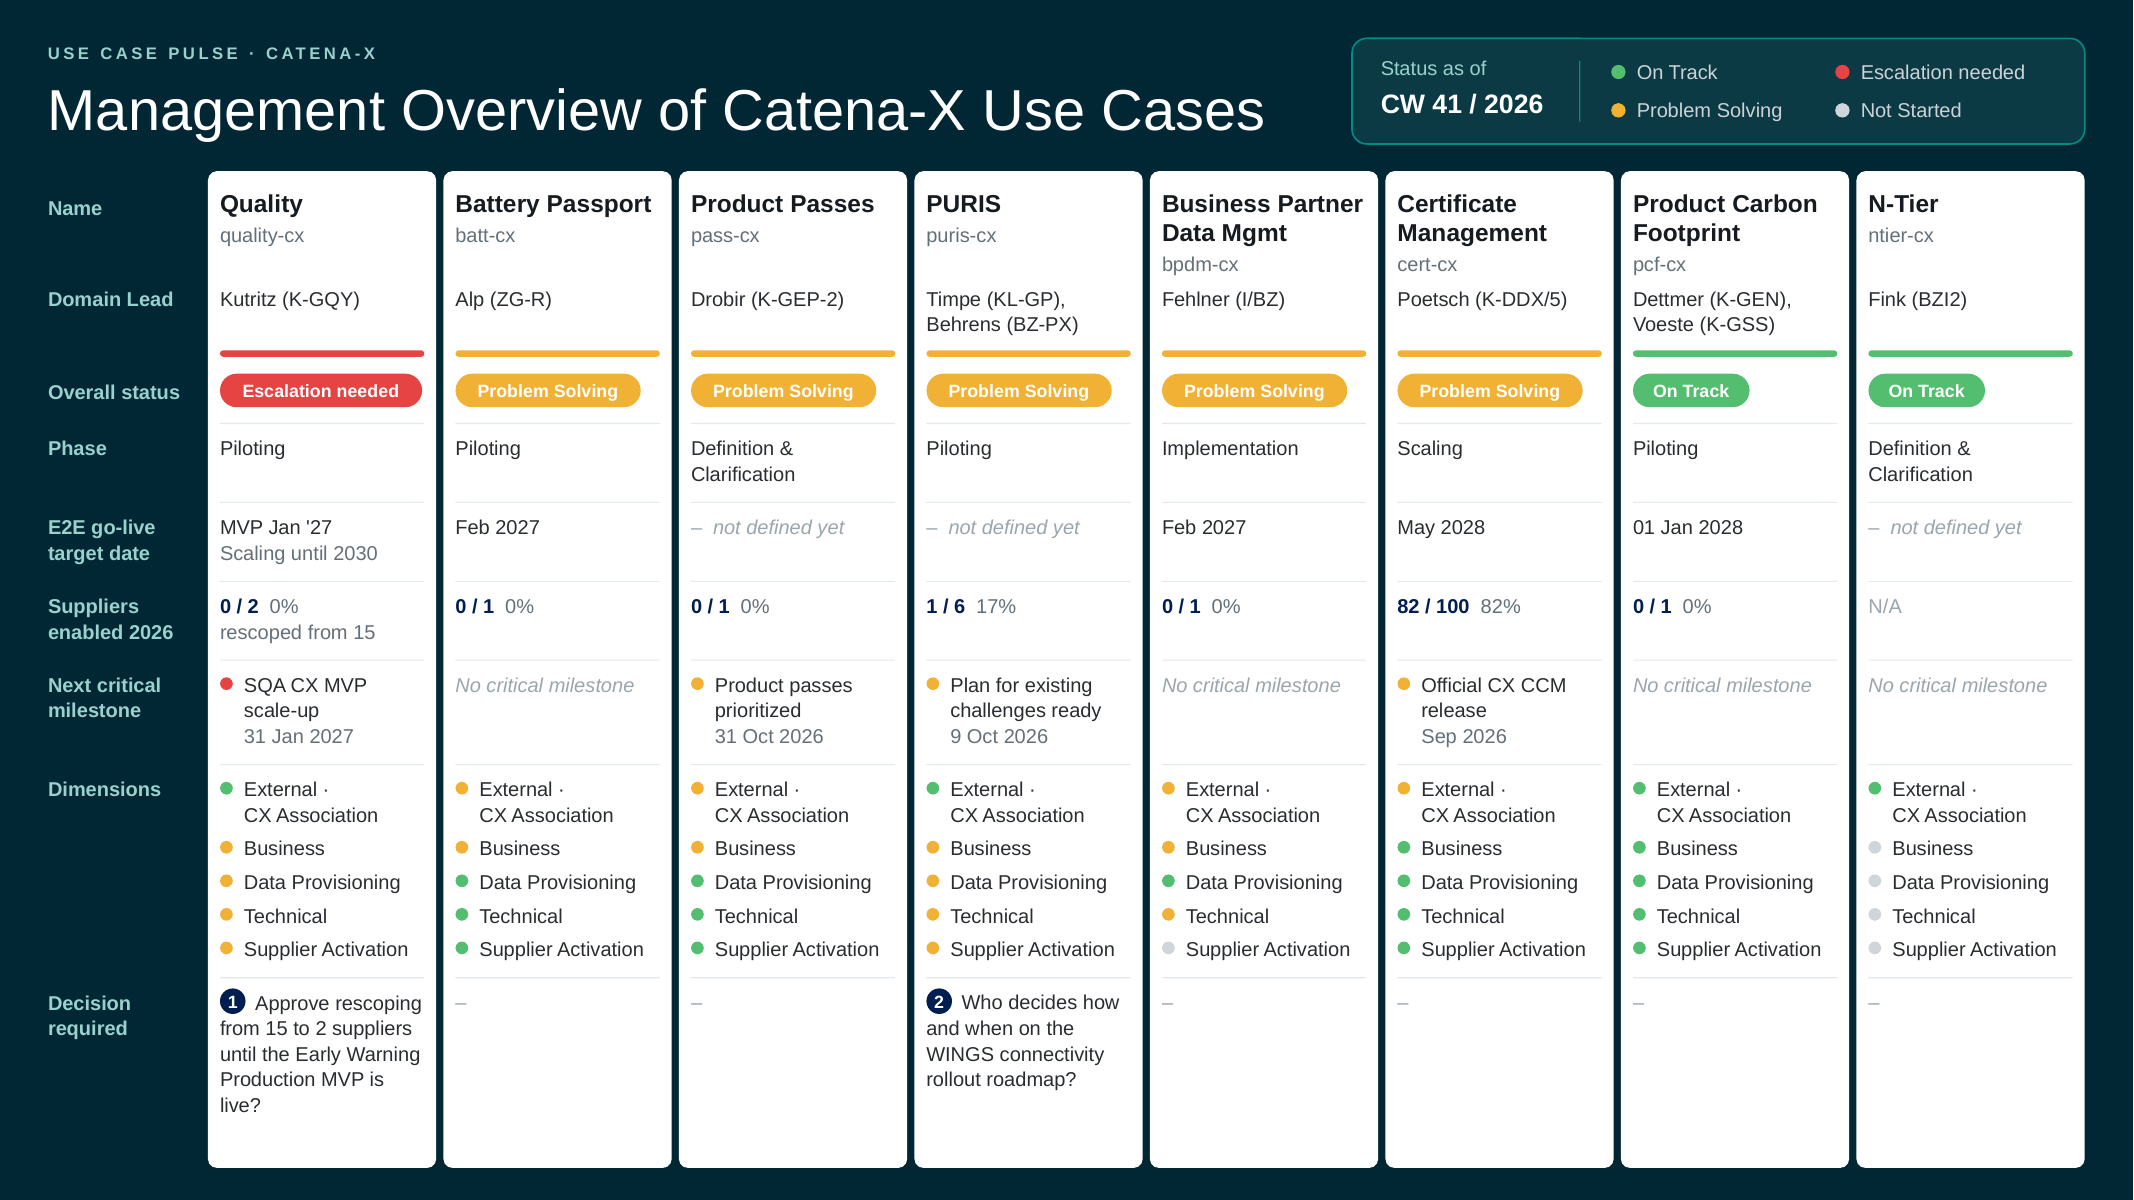
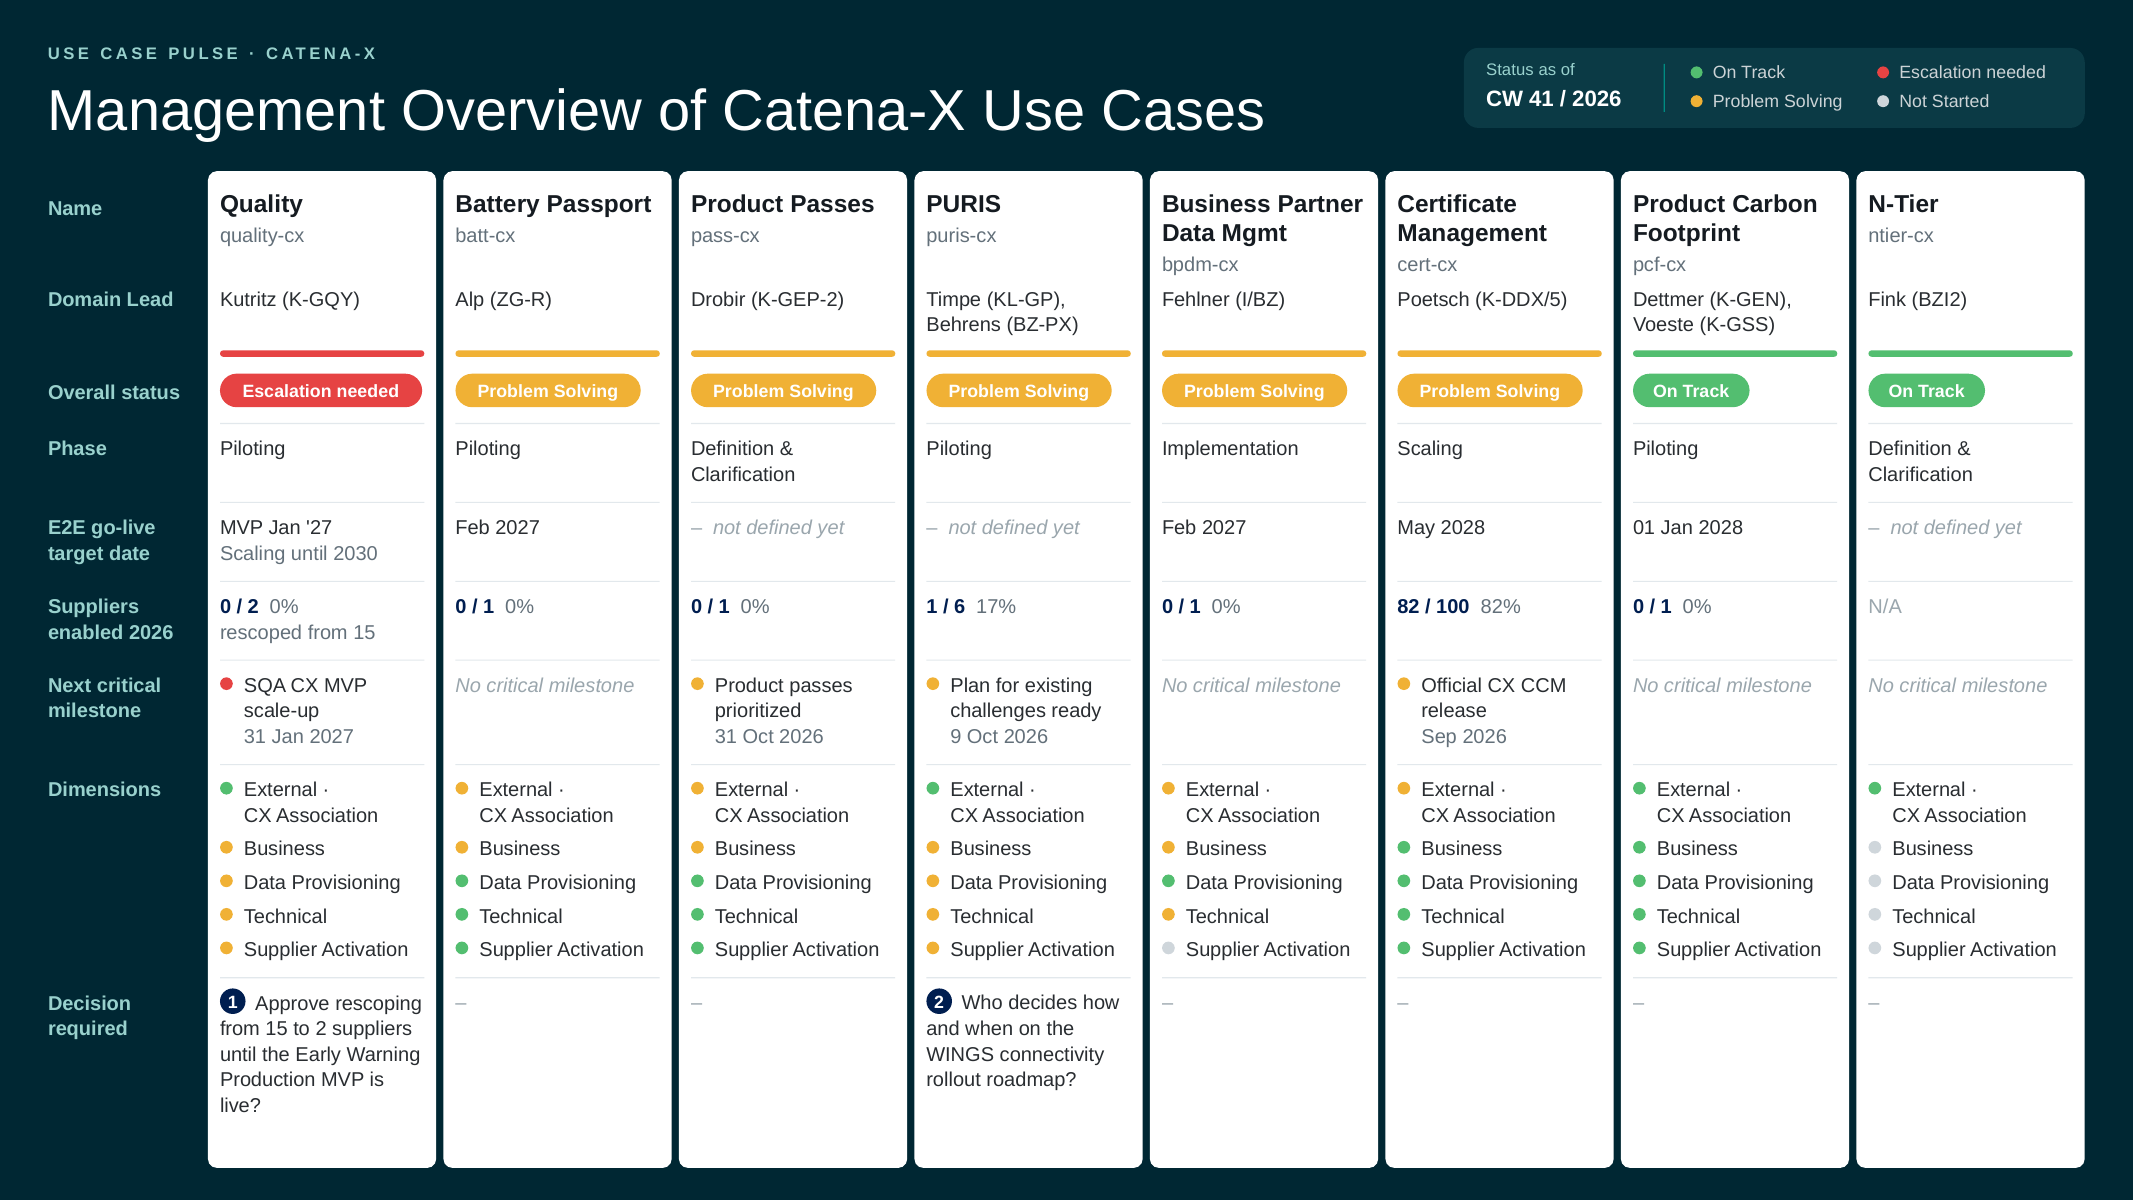
Make the CW/legend panel compact and quieter
Smaller type, no border, width computed from its content and right-aligned,
leaving room for longer headlines.

Claude-Session: https://claude.ai/code/session_01CQaEDurRGWu6YUbJ4GCCPu

Changed region(s): [[0.6495, 0.0308, 0.9588, 0.1233]]

diff --git a/scripts/build_management_overview.py b/scripts/build_management_overview.py
@@ -80,7 +80,7 @@ BG = "002733"          # Volkswagen Group dark petrol (theme dk2 / accent1)
 ON_DARK = "FFFFFF"     # headline
 ACCENT_LIGHT = "99D1CD"  # theme accent3 (mint): eyebrow and row labels
 ON_DARK_MUTED = "CCD3D6"  # theme accent5: legend text
-TEAL = "008C82"        # theme accent2: info panel border and divider
+TEAL = "008C82"        # theme accent2: info panel divider
 PANEL = "0B3A45"       # slightly lighter petrol for the info panel
 HEAD_FONT = "The Group HEAD Light"
 
@@ -233,21 +233,27 @@ def add_frame(s):
     s.text("Headline", 0.30, 0.44, 9.0, 0.46, [[r("Management Overview of Catena-X Use Cases", 26, False, ON_DARK)]],
            font=HEAD_FONT)
 
-    # Calendar week + status legend grouped in one panel (style of the Catena-X use case overview tiles)
-    px, py, pw, ph = 8.45, 0.24, 4.58, 0.66
-    s.shape("Info Panel", px, py, pw, ph, "roundRect", 14000, PANEL, TEAL, 9525)
-    s.text("Panel Label", px + 0.18, py + 0.11, 1.25, 0.16, [[r("Status as of", F, False, ACCENT_LIGHT)]], anchor="t")
-    s.text("Panel CW", px + 0.18, py + 0.30, 1.25, 0.24, [[r(CW, 12, True, ON_DARK)]], anchor="t")
-    s.shape("Panel Divider", px + 1.42, py + 0.14, 0.008, ph - 0.28, fill=TEAL)
-
+    # Calendar week + status legend: one compact, quiet panel at the top right (no border, slightly lighter petrol)
+    f_leg = 8
     legend = [("On Track", ON_TRACK), ("Problem Solving", PROBLEM),        # column 1
               ("Escalation needed", ESCALATION), ("Not Started", NOT_STARTED)]  # column 2
+    col_w = [0.14 + max(text_w(lbl, f_leg) for lbl, _ in legend[i:i + 2]) + 0.04 for i in (0, 2)]
+    cw_w = max(text_w(CW, 10, bold=True), text_w("Status as of", 7.5)) + 0.04
+    pad, gap = 0.14, 0.16
+    pw = pad + cw_w + gap + 0.008 + gap + col_w[0] + 0.12 + col_w[1] + pad
+    ph, py = 0.50, 0.30
+    px = 13.03 - pw
+    s.shape("Info Panel", px, py, pw, ph, "roundRect", 18000, PANEL)
+    s.text("Panel Label", px + pad, py + 0.07, cw_w, 0.14, [[r("Status as of", 7.5, False, ACCENT_LIGHT)]], anchor="t")
+    s.text("Panel CW", px + pad, py + 0.23, cw_w, 0.20, [[r(CW, 10, True, ON_DARK)]], anchor="t")
+    dx = px + pad + cw_w + gap
+    s.shape("Panel Divider", dx, py + 0.10, 0.008, ph - 0.20, fill=TEAL)
     for i, (lbl, col) in enumerate(legend):
-        lx = px + 1.62 + (i // 2) * 1.40
-        ly = py + 0.13 + (i % 2) * 0.24
-        s.shape(f"Legend Dot {lbl}", lx, ly + 0.035, 0.09, 0.09, "ellipse", fill=col)
-        s.text(f"Legend {lbl}", lx + 0.16, ly, 1.22, 0.16, [[r(lbl, F, False, ON_DARK_MUTED)]], anchor="t",
-               wrap=False)
+        lx = dx + 0.008 + gap + (0 if i < 2 else col_w[0] + 0.12)
+        ly = py + 0.08 + (i % 2) * 0.18
+        s.shape(f"Legend Dot {lbl}", lx, ly + 0.035, 0.075, 0.075, "ellipse", fill=col)
+        s.text(f"Legend {lbl}", lx + 0.14, ly, col_w[i // 2] - 0.14, 0.15, [[r(lbl, f_leg, False, ON_DARK_MUTED)]],
+               anchor="t", wrap=False)
 
 
 def build():
